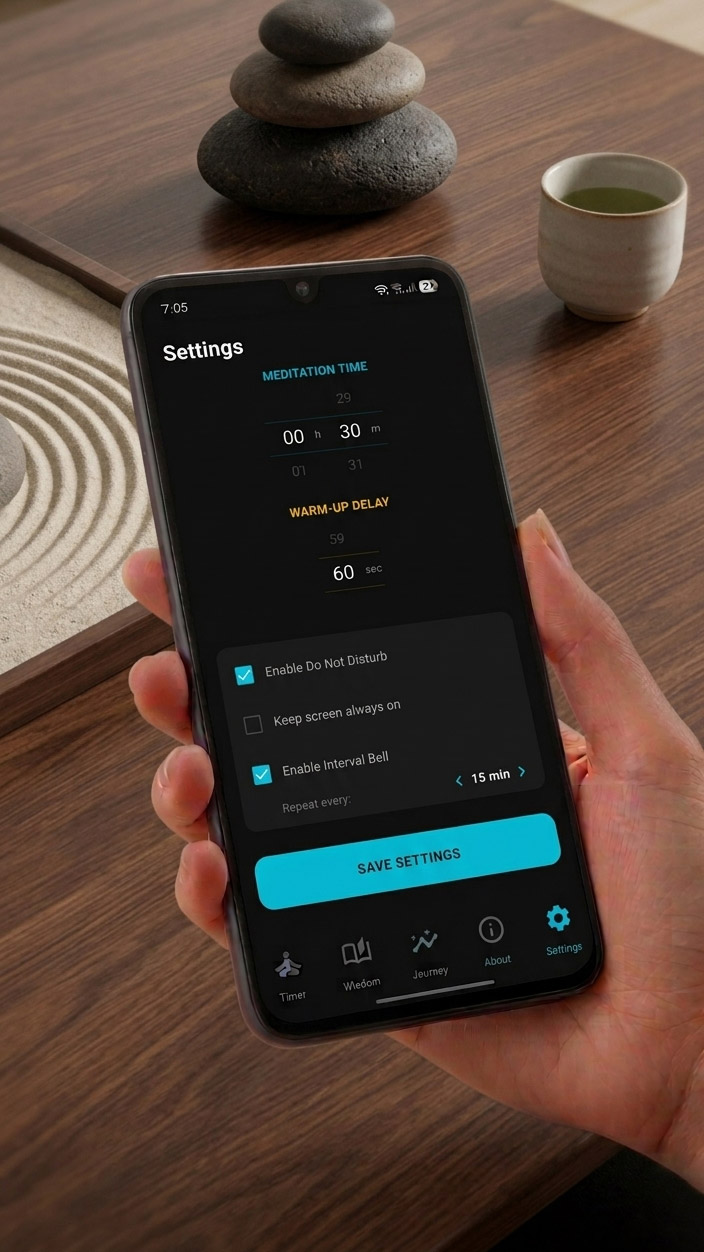
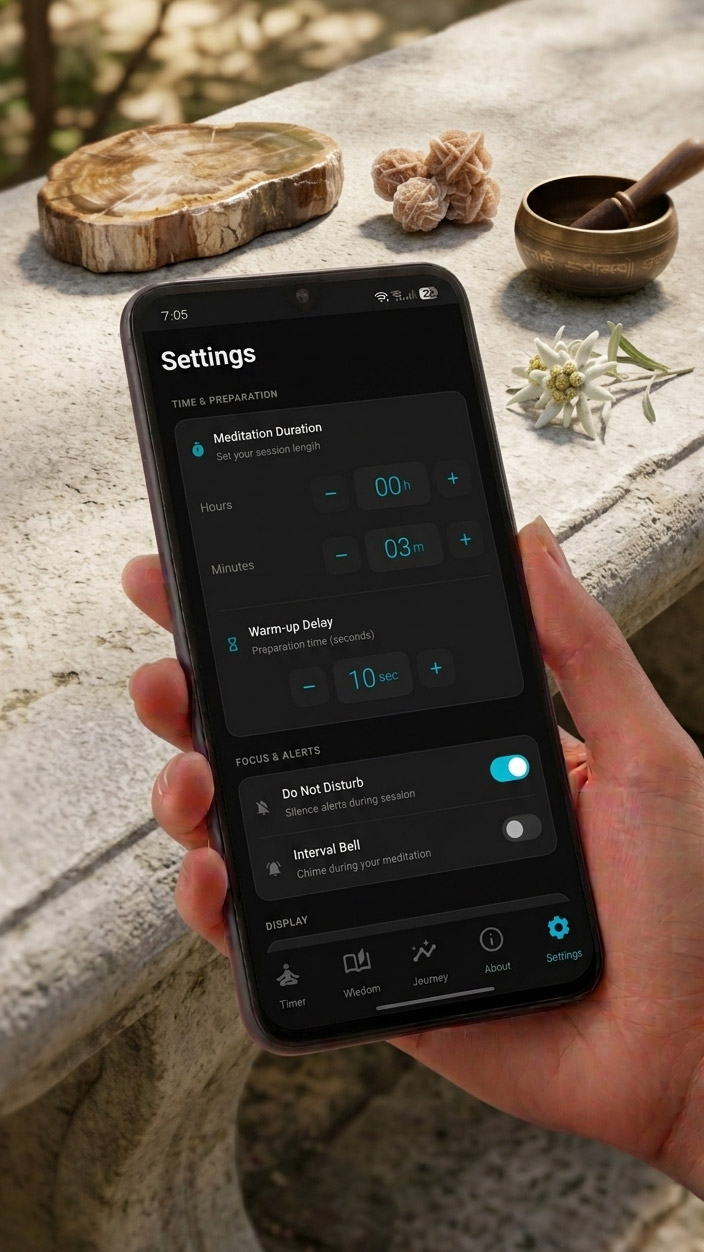
Simplificat scriptul de inlocuire a pozei 08.jpg si redenumire noua poza

diff --git a/just-sitting.php b/just-sitting.php
@@ -11,15 +11,6 @@ $just_sitting_gallery = array_values(array_filter($just_sitting_gallery, functio
     return strcasecmp(basename($path), 'justsittingbig.png') !== 0;
 }));
 $just_sitting_gallery = array_slice($just_sitting_gallery, 0, 8);
-$just_sitting_gallery = array_map(function ($path) {
-    if (strcasecmp(basename($path), '08.jpg') === 0) {
-        $replacement = __DIR__ . '/img/09.jpg';
-        if (file_exists($replacement)) {
-            return $replacement;
-        }
-    }
-    return $path;
-}, $just_sitting_gallery);
 
 include 'head.php';
 $pagina_curenta = 'just-sitting.php';
